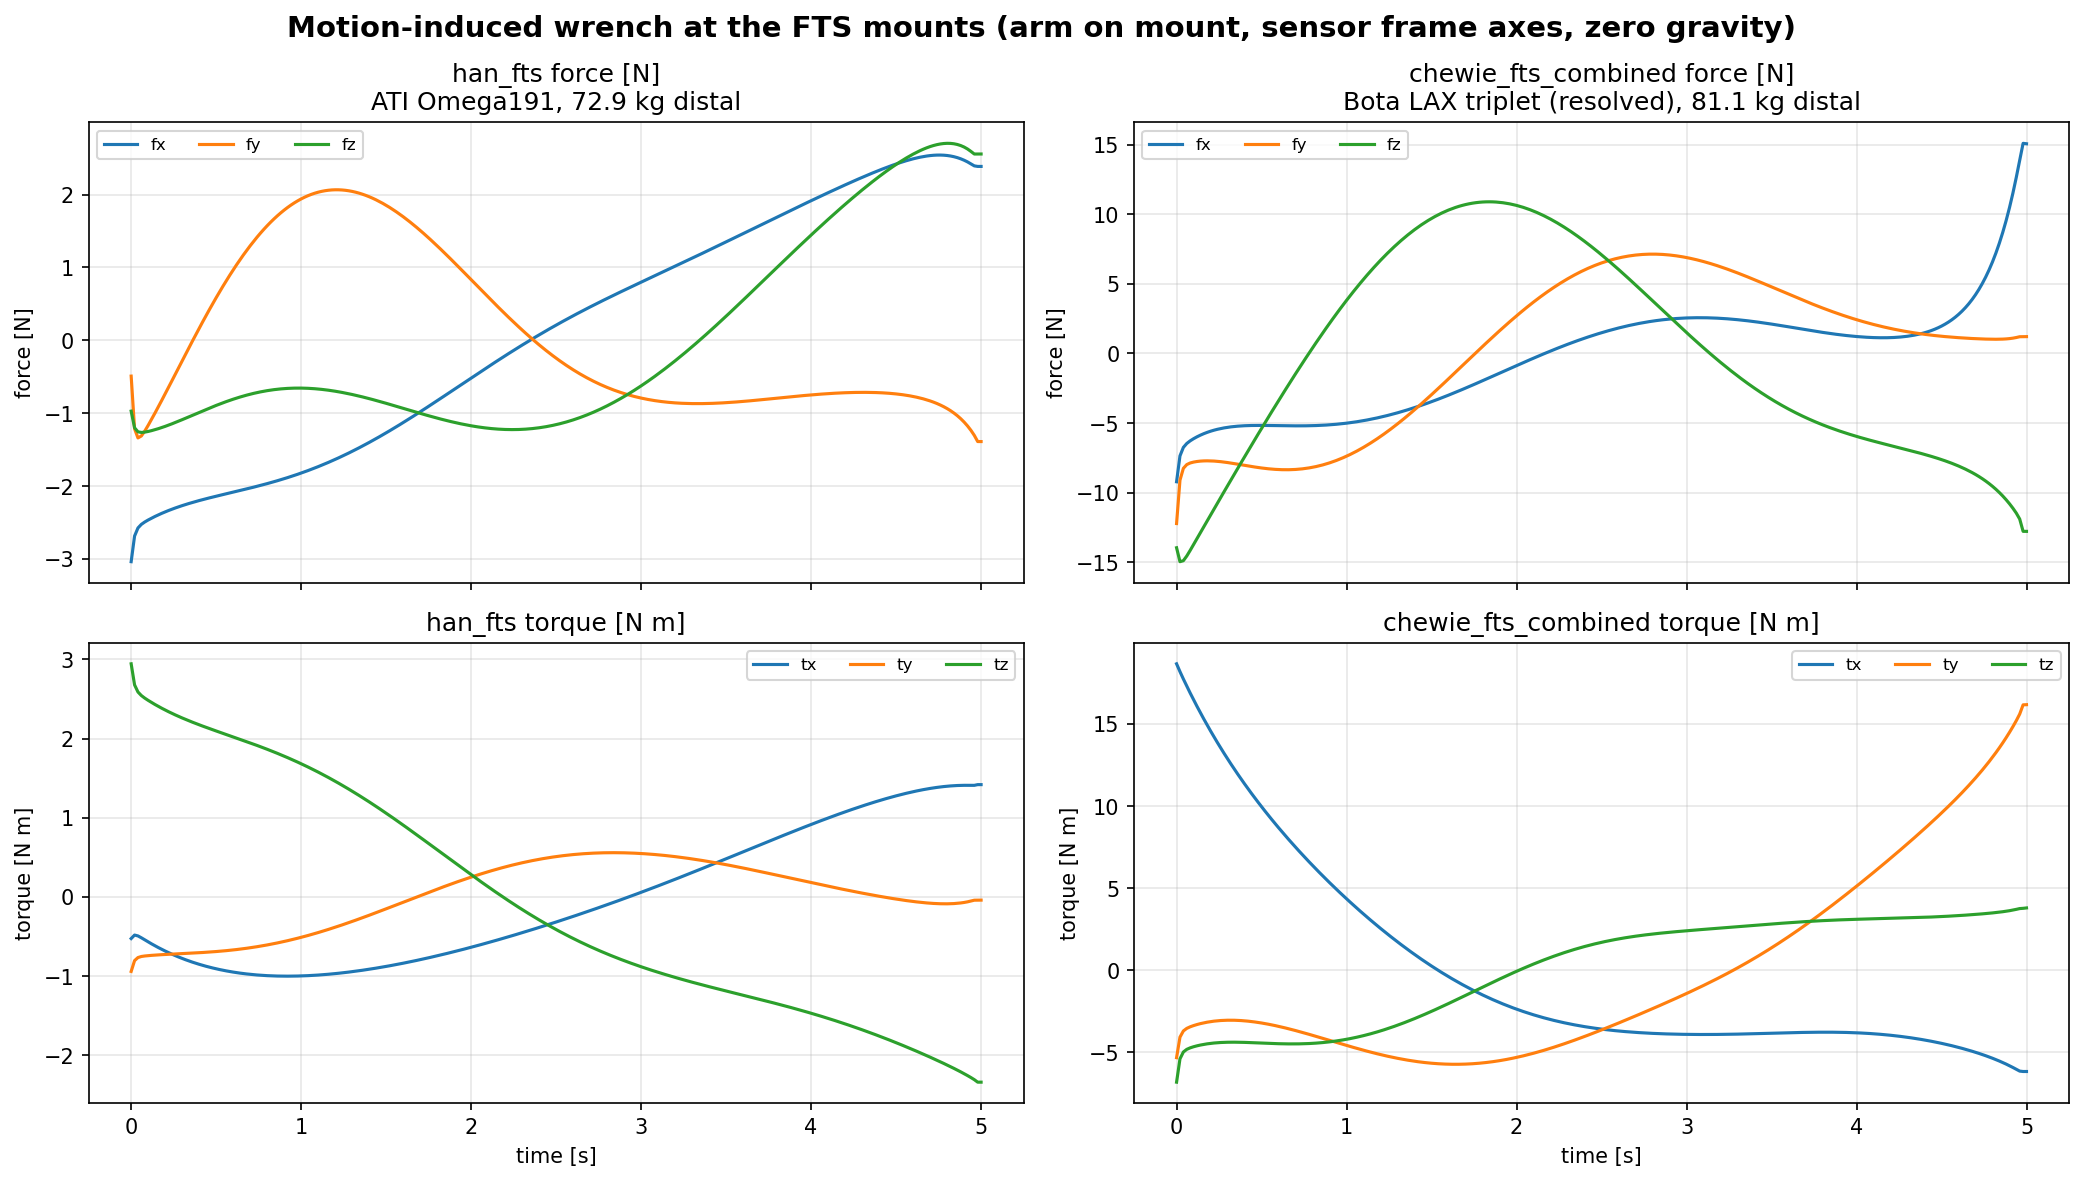
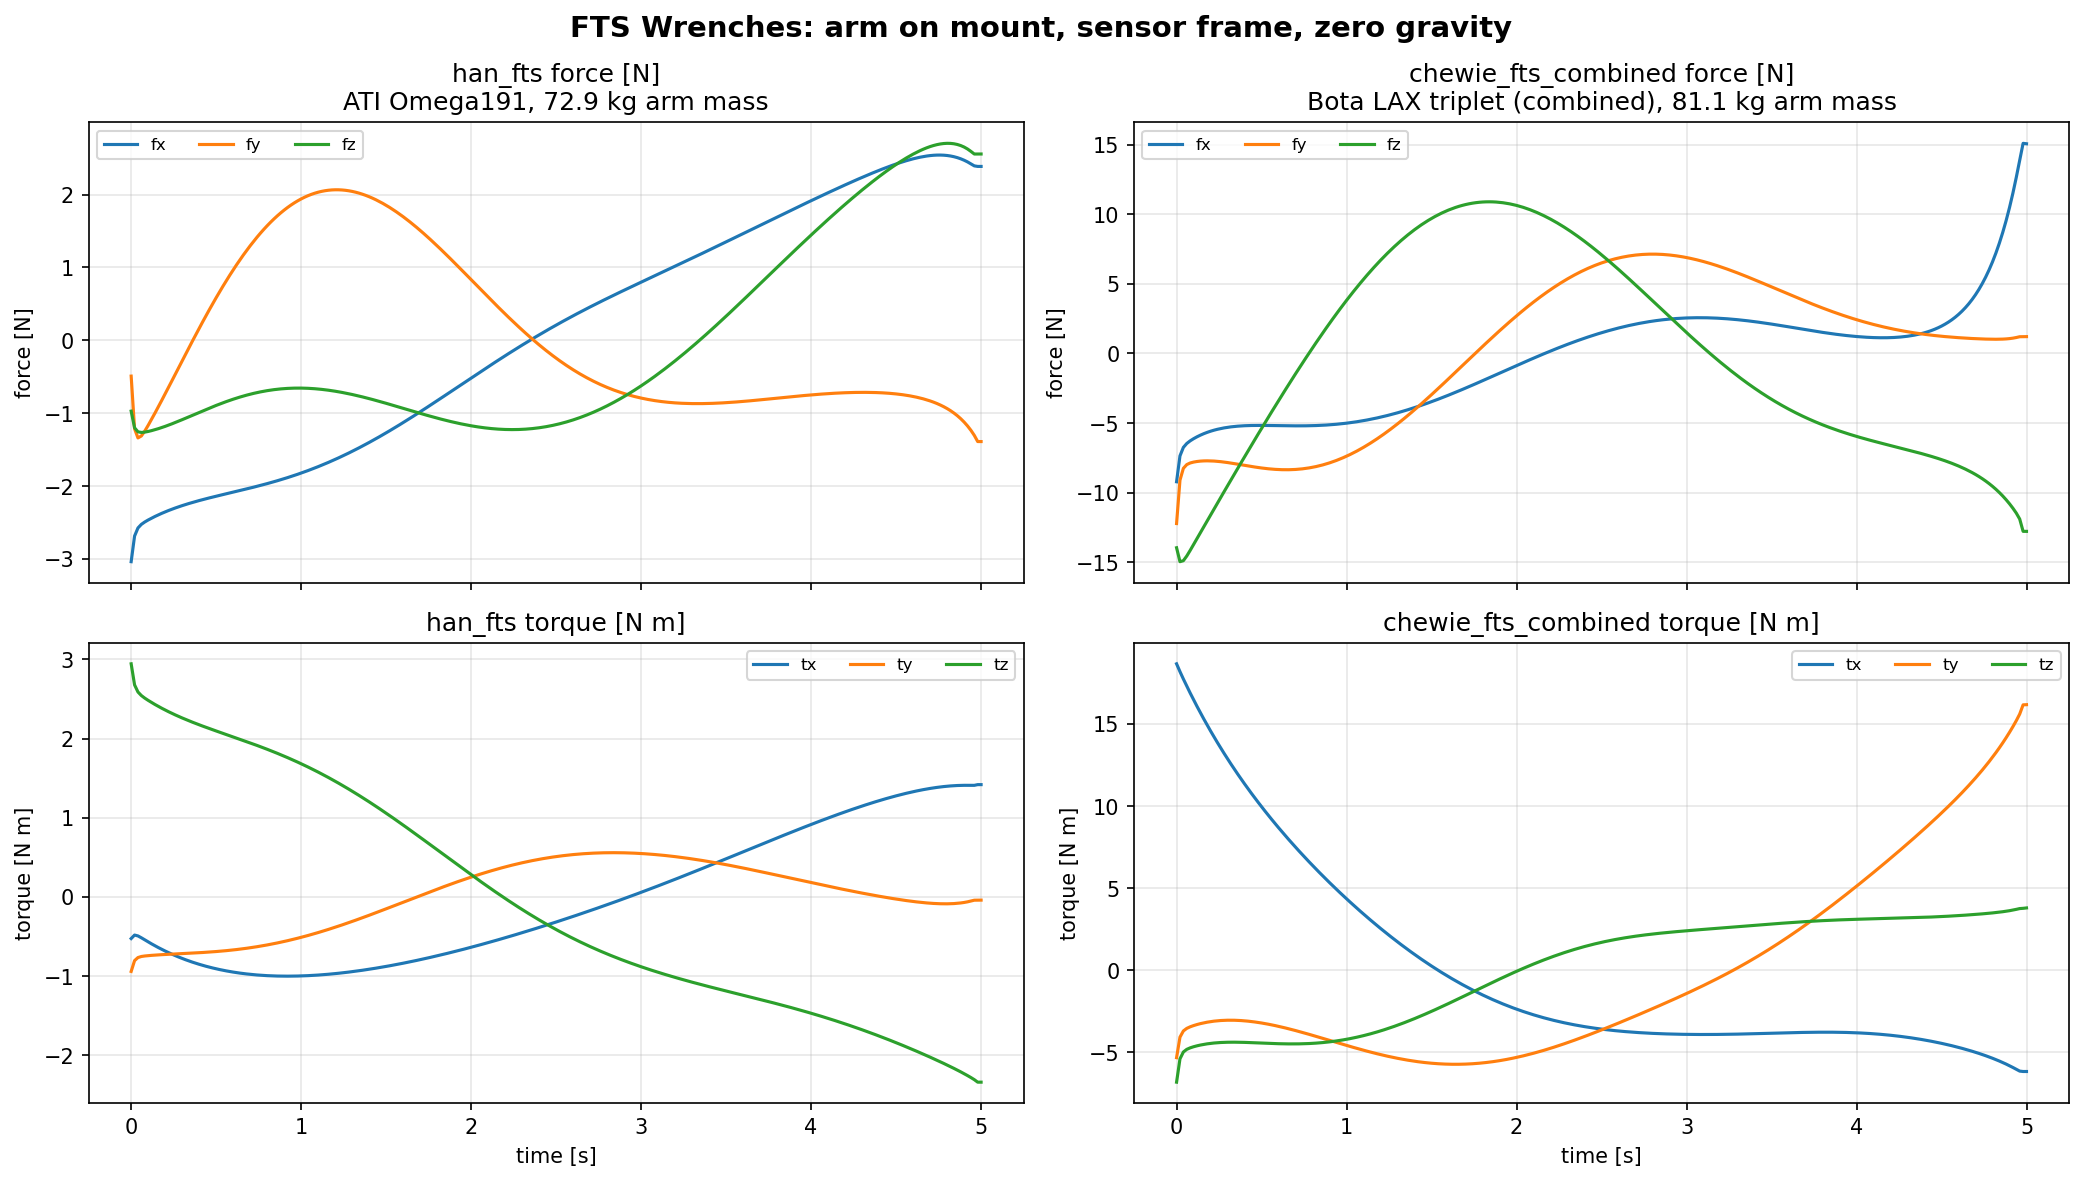
relabelled things in plots

Changed region(s): [[0.1248, 0.0, 0.8733, 0.0305], [0.6238, 0.061, 0.9045, 0.0914], [0.156, 0.061, 0.3743, 0.0914]]

diff --git a/scripts/rss_reach.py b/scripts/rss_reach.py
@@ -71,7 +71,7 @@ FTS_FRAMES = {
     },
     "chewie_fts_combined": {
         "audit_joint": "chewie_bota_lax_triplet_mount_to_fts_joint",
-        "hardware": "Bota LAX triplet (resolved)",
+        "hardware": "Bota LAX triplet (combined)",
     },
 }
 
@@ -757,7 +757,7 @@ def _save_sim_parameters(out_dir, urdf_path, sim_params):
 
     lines.extend(_fts_convention_lines(sim_params))
     for probe in sim_params.get("fts_probes", []):
-        csv_rows.append(("fts_frame", f"{probe['name']}_distal_mass_kg", probe["distal_mass"]))
+        csv_rows.append(("fts_frame", f"{probe['name']}_arm_mass_kg", probe["distal_mass"]))
         csv_rows.append(
             ("fts_frame", f"{probe['name']}_origin_m", probe["origin_in_base"])
         )
@@ -859,7 +859,7 @@ def _fts_convention_lines(sim_params):
         "gravity-compensated hardware measurement. The final sample repeats the last",
         "commanded acceleration, since there is one more state than control.",
         "",
-        "| frame | hardware | distal mass [kg] | origin in base frame [m] |",
+        "| frame | hardware | arm mass [kg] | origin in base frame [m] |",
         "| --- | --- | ---: | --- |",
     ]
     for probe in probes:
@@ -1260,7 +1260,7 @@ def _save_fts_wrench_outputs(out_dir, traj, probes):
             torque_ax.plot(times, wrench[:, 3 + i], label=comp)
         force_ax.set_title(
             f"{probe['name']} force [N]\n{probe['hardware']}, "
-            f"{probe['distal_mass']:.1f} kg distal"
+            f"{probe['distal_mass']:.1f} kg arm mass"
         )
         force_ax.set_ylabel("force [N]")
         torque_ax.set_title(f"{probe['name']} torque [N m]")
@@ -1271,7 +1271,7 @@ def _save_fts_wrench_outputs(out_dir, traj, probes):
             ax.legend(ncol=3, fontsize=8)
 
     fig.suptitle(
-        "Motion-induced wrench at the FTS mounts (arm on mount, sensor frame axes, zero gravity)",
+        "FTS Wrenches: arm on mount, sensor frame, zero gravity",
         fontsize=14,
         fontweight="bold",
     )

diff --git a/output/rss_wrench_sweep/mass_1000kg/sim_parameters.md b/output/rss_wrench_sweep/mass_1000kg/sim_parameters.md
@@ -28,10 +28,10 @@ wrench is purely motion-induced and is directly comparable to a
 gravity-compensated hardware measurement. The final sample repeats the last
 commanded acceleration, since there is one more state than control.
 
-| frame | hardware | distal mass [kg] | origin in base frame [m] |
+| frame | hardware | arm mass [kg] | origin in base frame [m] |
 | --- | --- | ---: | --- |
 | `han_fts` | ATI Omega191 | 72.9217 | [0.2667 0.2921 0.0894] |
-| `chewie_fts_combined` | Bota LAX triplet (resolved) | 81.0698 | [ 0.2286 -0.2794  0.0699] |
+| `chewie_fts_combined` | Bota LAX triplet (combined) | 81.0698 | [ 0.2286 -0.2794  0.0699] |
 
 ### Column conventions in `<frame>_wrench.csv`
 

diff --git a/output/rss_wrench_sweep/mass_2000kg/sim_parameters.md b/output/rss_wrench_sweep/mass_2000kg/sim_parameters.md
@@ -28,10 +28,10 @@ wrench is purely motion-induced and is directly comparable to a
 gravity-compensated hardware measurement. The final sample repeats the last
 commanded acceleration, since there is one more state than control.
 
-| frame | hardware | distal mass [kg] | origin in base frame [m] |
+| frame | hardware | arm mass [kg] | origin in base frame [m] |
 | --- | --- | ---: | --- |
 | `han_fts` | ATI Omega191 | 72.9217 | [0.2667 0.2921 0.0894] |
-| `chewie_fts_combined` | Bota LAX triplet (resolved) | 81.0698 | [ 0.2286 -0.2794  0.0699] |
+| `chewie_fts_combined` | Bota LAX triplet (combined) | 81.0698 | [ 0.2286 -0.2794  0.0699] |
 
 ### Column conventions in `<frame>_wrench.csv`
 

diff --git a/output/rss_wrench_sweep/mass_3000kg/sim_parameters.md b/output/rss_wrench_sweep/mass_3000kg/sim_parameters.md
@@ -28,10 +28,10 @@ wrench is purely motion-induced and is directly comparable to a
 gravity-compensated hardware measurement. The final sample repeats the last
 commanded acceleration, since there is one more state than control.
 
-| frame | hardware | distal mass [kg] | origin in base frame [m] |
+| frame | hardware | arm mass [kg] | origin in base frame [m] |
 | --- | --- | ---: | --- |
 | `han_fts` | ATI Omega191 | 72.9217 | [0.2667 0.2921 0.0894] |
-| `chewie_fts_combined` | Bota LAX triplet (resolved) | 81.0698 | [ 0.2286 -0.2794  0.0699] |
+| `chewie_fts_combined` | Bota LAX triplet (combined) | 81.0698 | [ 0.2286 -0.2794  0.0699] |
 
 ### Column conventions in `<frame>_wrench.csv`
 

diff --git a/output/rss_wrench_sweep/mass_4000kg/sim_parameters.md b/output/rss_wrench_sweep/mass_4000kg/sim_parameters.md
@@ -28,10 +28,10 @@ wrench is purely motion-induced and is directly comparable to a
 gravity-compensated hardware measurement. The final sample repeats the last
 commanded acceleration, since there is one more state than control.
 
-| frame | hardware | distal mass [kg] | origin in base frame [m] |
+| frame | hardware | arm mass [kg] | origin in base frame [m] |
 | --- | --- | ---: | --- |
 | `han_fts` | ATI Omega191 | 72.9217 | [0.2667 0.2921 0.0894] |
-| `chewie_fts_combined` | Bota LAX triplet (resolved) | 81.0698 | [ 0.2286 -0.2794  0.0699] |
+| `chewie_fts_combined` | Bota LAX triplet (combined) | 81.0698 | [ 0.2286 -0.2794  0.0699] |
 
 ### Column conventions in `<frame>_wrench.csv`
 

diff --git a/output/rss_wrench_sweep/mass_5000kg/sim_parameters.md b/output/rss_wrench_sweep/mass_5000kg/sim_parameters.md
@@ -28,10 +28,10 @@ wrench is purely motion-induced and is directly comparable to a
 gravity-compensated hardware measurement. The final sample repeats the last
 commanded acceleration, since there is one more state than control.
 
-| frame | hardware | distal mass [kg] | origin in base frame [m] |
+| frame | hardware | arm mass [kg] | origin in base frame [m] |
 | --- | --- | ---: | --- |
 | `han_fts` | ATI Omega191 | 72.9217 | [0.2667 0.2921 0.0894] |
-| `chewie_fts_combined` | Bota LAX triplet (resolved) | 81.0698 | [ 0.2286 -0.2794  0.0699] |
+| `chewie_fts_combined` | Bota LAX triplet (combined) | 81.0698 | [ 0.2286 -0.2794  0.0699] |
 
 ### Column conventions in `<frame>_wrench.csv`
 
